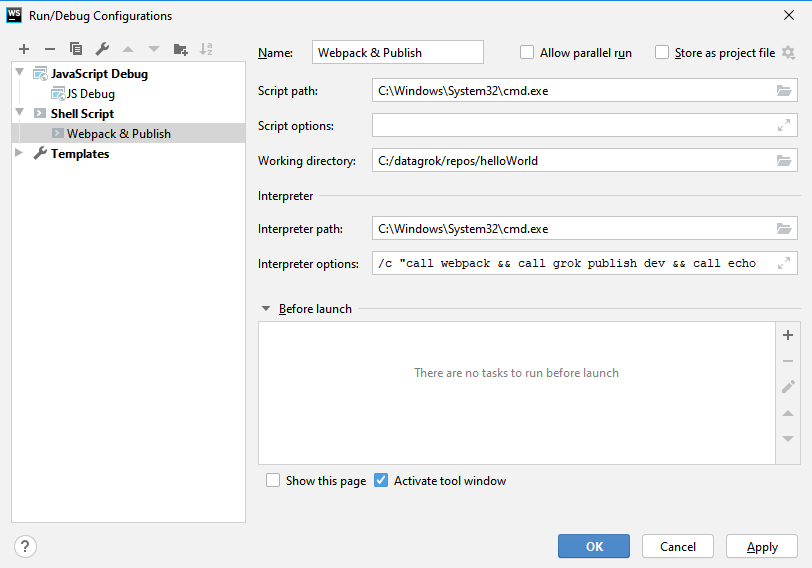
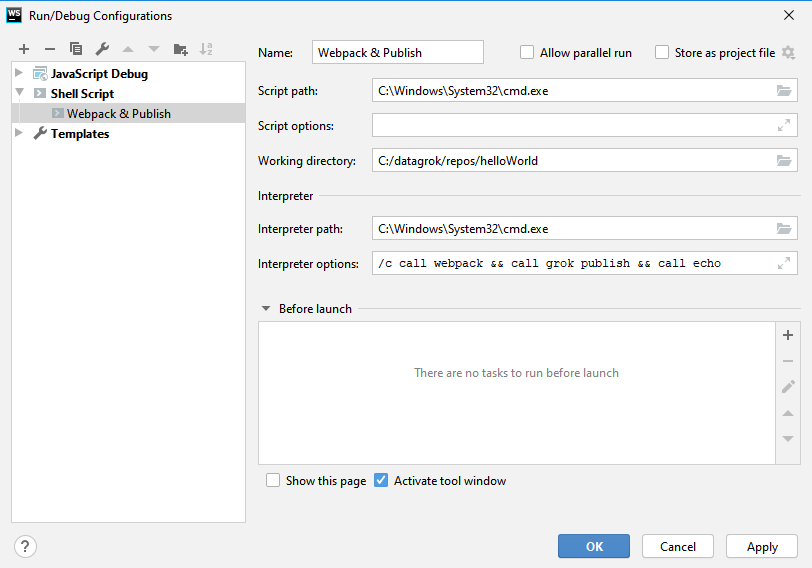
Wiki: debugging packages, debugging in WebStorm.

Changed region(s): [[0.0, 0.1197, 0.3079, 0.2993], [0.4926, 0.4489, 0.9236, 0.4789]]

diff --git a/help/develop/develop.md b/help/develop/develop.md
@@ -442,6 +442,14 @@ Fill this configuration with the following:
 
 ![WebStorm: Shell Script configuration content](webstorm-debugging-03.png)
 
+_Note._ This configuration may look controversial: why would we set the trailing `echo` command the `Interpreter options`,
+and why would we set `cmd.exe` twice in both `Script path` and `Interpreter path`? The reason are known problems in WebStorm.
+It turns out both interpreter and script parameters have to be specified. Though in our case we only need the interpreter with
+certain keys, omitting the script parameter will work if you run the `Webpack & Publish` configuration standalone, but this _won't_
+work as part of the other's configuration build step, which we'd need later. As for the trailing `echo`, it is simply due to the way
+this build step is implemented in WebStorm: it concatenates the interpreter line with the script call line, and we use it to
+suppress the redundant script call line.
+
 This configuration shall become a step running a webpack on your package and publishing it to a configuration of your choice.
 In the above screenshot we've chosen a `dev` configuration, declared in your grok config file at `%USERPROFILE%/.grok/config.yaml`:
 
